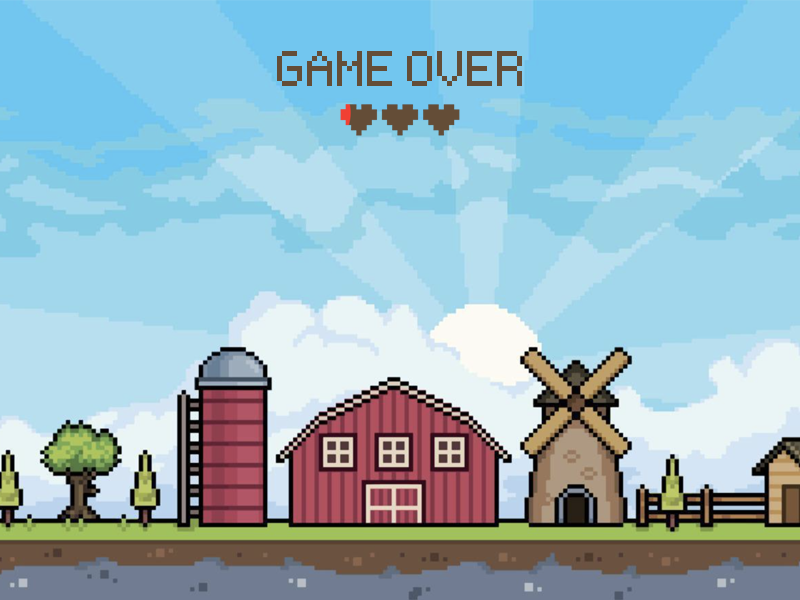
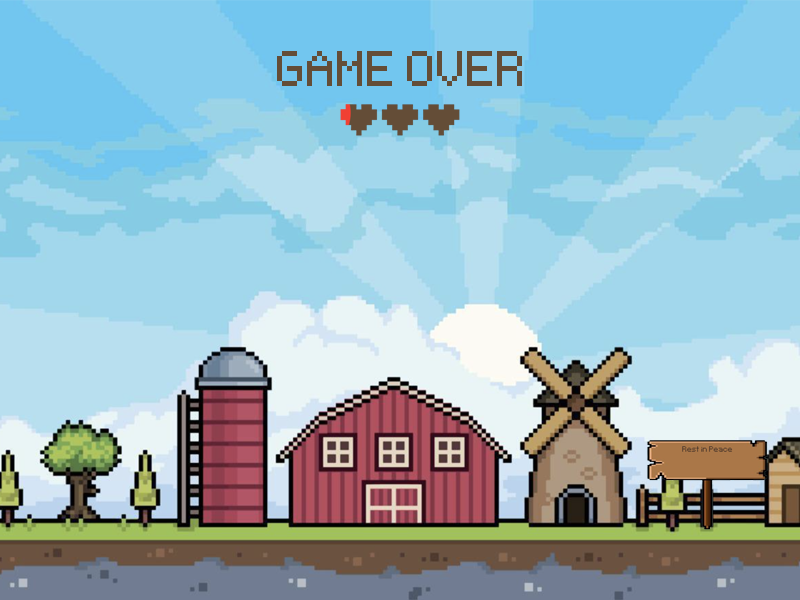
Added details to intro, game over screen

Changed region(s): [[0.8125, 0.72, 0.9688, 0.9]]

diff --git a/game.py b/game.py
@@ -24,7 +24,7 @@ class Game:
         self.SPEED = 5
         self.SCORE = 0
         self.LIFE_COUNT = 3
-        self.NAME = ""
+        self.NAME = ("", False)
         self.PRIMARY_COLOR = "#644d37"
         self.input_box = InputBox(self.font, 370, 220, 140, 32)
 
@@ -184,6 +184,10 @@ class Game:
             self.draw_life(650, 50)
         elif self.game_state == GameState.GAME_OVER:
             self.SCREEN.blit(self.background_image, self.background_image_rect)
+            name = self.font.render(f"{self.NAME[0]}", False, self.PRIMARY_COLOR)
+            name = pygame.transform.rotozoom(name, 0, 0.4)
+            name_rect = name.get_rect(center=(710, 465))
+            self.SCREEN.blit(name, name_rect)
             current_score = self.font.render(
                 f"Your score: {self.SCORE}", False, self.PRIMARY_COLOR)
             current_score_rect = current_score.get_rect(center=(400, 190))
